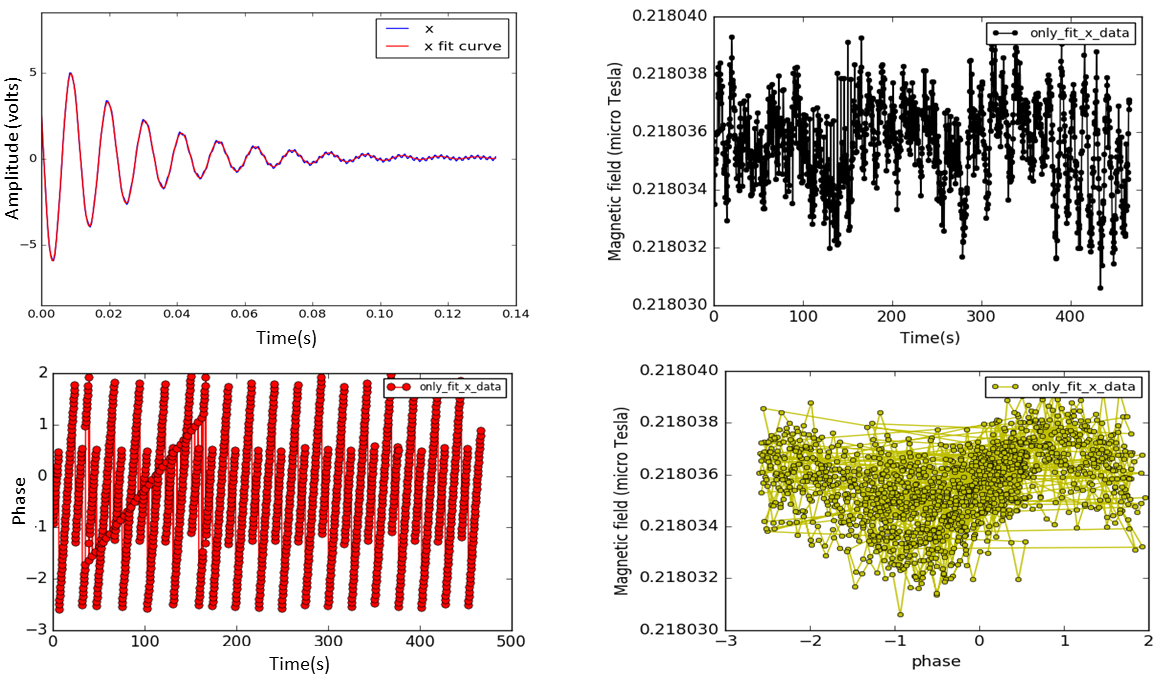
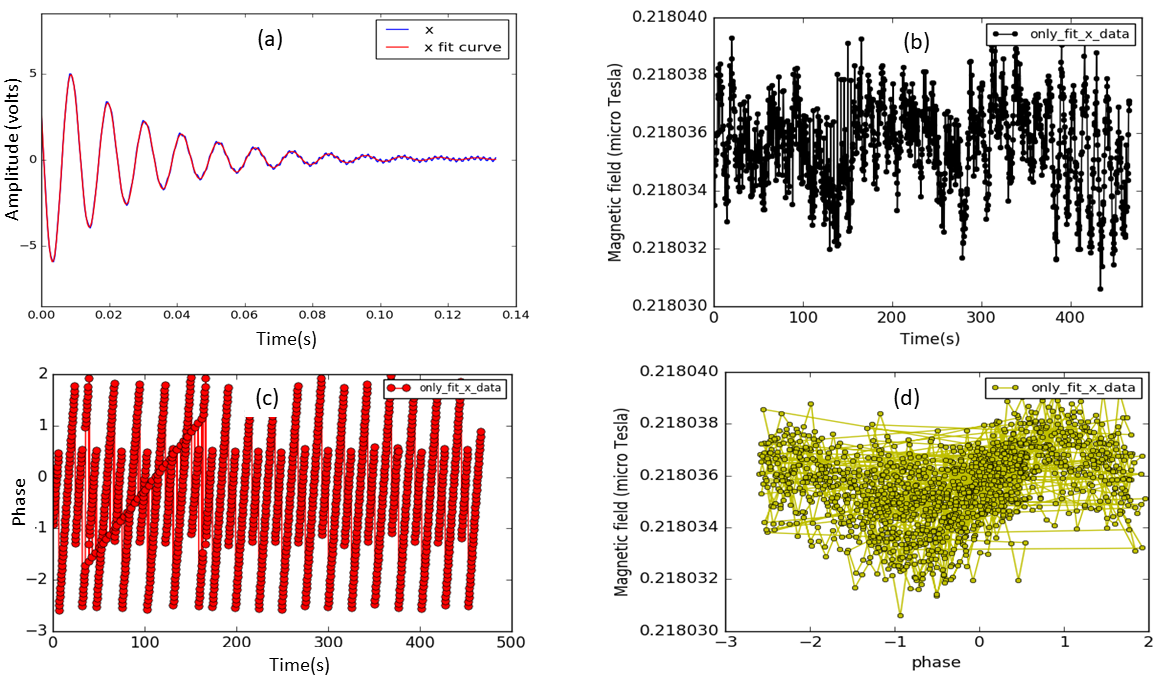
pushing any changes by Moushumi as of 9 am on Tuesday.

diff --git a/results.tex b/results.tex
@@ -216,38 +216,41 @@ to saturate well within 0.1~s.  The coherence time, indicated by the
 decay time of the oscillating signal, is about 0.06~s.
 Fig.~\ref{fig:pump-short} shows a more optimized the FID signal for
 0.1~s pump time and 0.2~s probe time.
-
+\begin{figure}%[h]
+  \centering\includegraphics[width=\linewidth]{figures/pump_time_}
+  \caption{Histograms of measured B-field for different pump times, for a measurement time of 100~s.  (a) is a pump time of
+      0.49~s (b) is a pump time of 0.39~s (c) is a pump time of 0.2~s
+      (d) is a pump time of 0.1~s.  The probe time in each case is
+      0.25~s.  The number of measurements taken in each case is
+      therefore (a) 137 (b) 158 (c) 224 (d) 287.  The standard
+      deviation of each set of measurements is indicated in the
+      respective figure.}\label{fig:different-pump-time}
+\end{figure}
 \begin{figure}%[h]
   \centering\includegraphics[width=\linewidth]{figures/pump_time}
   \caption{Histograms of measured B-field for different pump times,
-    {\bf for a measurement time of 300~s}. {\bf (a) is a pump time of
+    {\bf for a measurement time of 200~s}. {\bf (a) is a pump time of
       0.49~s (b) is a pump time of 0.39~s (c) is a pump time of 0.2~s
       (d) is a pump time of 0.1~s.  The probe time in each case is
       0.25~s.  The number of measurements taken in each case is
       therefore (a) 405 (b) 468 (c) 666 (d) 857.  The standard
       deviation of each set of measurements is indicated in the
-      respective figure.}\label{fig:different-pump-time}}
+      respective figure.}\label{fig:differentpump-time}}
 \end{figure}
 
 In Fig.~\ref{fig:different-pump-time} a histogram of measured magnetic
-fields by making subsequent measurements over 300~s is shown for
+fields by making subsequent measurements over 100~s is shown for
 different pump times.  {\bf Which one is which? What is in the figure?
-  The longer pump time is 0.49 s and the shorter one is 0.1 s.  What
+  The longer pump time is 0.49~s (\ref{fig:different-pump-time}(a)) and the shorter one is 0.1~s (\ref{fig:different-pump-time}(d)).  What
   is the probe time.  How many measurements appear in each graph?}
 
 From Fig.~\ref{fig:different-pump-time}, the pump time, when varied
 over this limited range, does not strongly affect the precision of the
 individual FID measurements.  {\bf However, it allows us to take
-  measurements faster(It is possible to take 857 measurement in 300 s
+  measurements faster(It is possible to take 287 measurement in 100 s
   if cycle time is optimized to 0.35 s instead of 1 s.  How much
   faster?  You need to say the times and/or how many measurements.}
   
-%  However for our Rb magnetometry setup the
-%shortest pump time 0.1 s because 0.1 s is the minimum time atoms need
-%to get aligned for making a coherence state after interacting with
-%laser beam. Since the amplitude of FID NMOR signal reach it's maximum
-%while atoms are in coherence state. Thus It is easy to understand
-%coherence state is ready or not by observing the signal amplitude.
 
 It is not surprising that the precision does not change much because
 the amplitude of the differential photodiode signal during the pump
@@ -415,19 +418,19 @@ time for different coil current. For better understanding
 Fig.~\ref{fig:field-change} has been divide into five different
 regions. In region-1 magnetic field has been recorded for 300 s while
 the applied current to the Z coil was 4.5 mA {\bf do you mean
-  4.500~mA?%  I mean 4.500~mA
+  4.500~mA?%  I mean 4.50000~mA
   How many digits of precision are possible in the current
   supply? }%6.5-digit. 
   Then in region-2 the applied current to the z coil has
-been increased by 0.0010 mA {\bf sig figs?} i.e., total current 4.5010
+been increased by 0.00100 mA {\bf sig figs?} i.e., total current 4.50100
 mA {\bf sig figs?} and measured the magnetic field for another 300
 s. It is clear from the figure that the field has been changed
 instantly by 50 pT due to the changed coil current. Now in
-region-3, the coil current has been reduced to 4.5000 mA {\bf sig figs?}
+region-3, the coil current has been reduced to 4.50000 mA {\bf sig figs?}
 and measured field for 300 s. After that the coil current has been
-decreased by 0.0010 mA. As a result the field also decreased by
+decreased by 0.00100 mA. As a result the field also decreased by
 50~pT in this region.  Finally in region-5 the coil current has
- been set to 4.5000 mA again and observed the corresponing quick change in
+ been set to 4.50000 mA again and observed the corresponing quick change in
 field.
 
 \section{Study the effect of room temperature in magnetic field} 
@@ -466,7 +469,7 @@ has taken place. In order to understand the correlation between
 temperature change and field change, the measured field
 vs. temperature has shown in Fig.~\ref{fig:field_vs_temp}. {\bf What
   was the data acquisition system for each device?  How were the data
-  synchronized?% For room temperature measurement a precision thermometer was connected to a Agilent 34410A/11A 6 ½ Digit Multimeter. A python script was used to configures the multimeter for a 2-wire RTD measurement, triggers the meter, and then transfers the reading to the computer via instrument output buffer. And for temperature measurement near shield  the T-type thermocouple was connected with a Arduino Uno. For configuring this device and then transferring the reading to the computer a python script was used. 
+  synchronized?% For room temperature measurement a precision thermometer was connected to a Agilent 34410A/11A 6 ½ Digit Multimeter. A python script was used to configures the multimeter for a 2-wire RTD measurement, triggers the meter, and then transfers the reading to the computer. And for temperature measurement near shield  the T-type thermocouple was connected with a Arduino Uno. For configuring this device and then transferring the reading to the computer a python script was used. 
   }  It is clear from the graph that there is no obvious
 of field drift dependency on temperature.
   
@@ -1016,17 +1019,17 @@ Another study has been conducted to understand the influence of pump beam power 
 
 
  
-  The FID signal for different reference frequency of lock-in amplifier has shown in Fig \ref{fig:different reference signal}. In the case of Fig \ref{fig:far from resonance} the reference frequency of lock-in was set to 1943.9 Hz (90 Hz far from resonance frequency). On the other hand for Fig \ref{fig:close to resonance} the reference frequency of lock-in was set to 2015 Hz (20 Hz far from resonance frequency). In this study the resonance frequency was always set to 2035 Hz and the pump power(~60 $\mu$w) and probe power (~32 $\mu$w)
+  The FID signal for different reference frequency of lock-in amplifier has shown in Fig \ref{fig:different reference signal}. In the case of Fig \ref{fig:far from resonance} the reference frequency of lock-in was set to 1943.9 Hz (90 Hz far from resonance frequency). On the other hand for Fig \ref{fig:close to resonance} the reference frequency of lock-in was set to 2015 Hz (20 Hz far from resonance frequency). In this study the resonance frequency was always set to 2035 Hz and the pump power(~60 $\mu$w) and probe power (~30 $\mu$w)
   
-  Fig\ref{fig:freq_1943_single_fit_300_micros} display the example of fitted FID signal(upper left figure), measured magnetic field over time (upper right figure), phase as a function of time (bottom left figure) and magnetic field vs. phase (bottom left figure) for lock-in reference frequency 1943 Hz. During this measurement the lock-in time constant was set to 300$\mu$~s. A clear indication of correlation between field and phase can be seen here.
+  Fig \ref{fig:freq_1943_single_fit_300_micros} display the example of fitted FID signal(Fig \ref{fig:freq_1943_single_fit_300_micros}a), measured magnetic field over time (Fig \ref{fig:freq_1943_single_fit_300_micros}b), phase as a function of time (Fig \ref{fig:freq_1943_single_fit_300_micros}c) and magnetic field vs. phase (Fig \ref{fig:freq_1943_single_fit_300_micros}d) for lock-in reference frequency 1943 Hz. During this measurement the lock-in time constant was set to 300$\mu$~s. A clear indication of correlation between field and phase can be seen here.
   
-   Fig\ref{fig:freq_1943_simultaneous_fit_300_micro_sec} display the example of simultaneous fitted x and y signal(upper left figure), measured magnetic field over time (upper right figure), magnetic field vs. phase (bottom left figure) and histogram of measured field (bottom left figure) for lock-in reference frequency 1943 Hz. During this measurement the lock-in time constant was set to 300$\mu$~s. 
+   Fig \ref{fig:freq_1943_simultaneous_fit_300_micro_sec} display the example of simultaneous fitted x and y signal( Fig \ref{fig:freq_1943_simultaneous_fit_300_micro_sec}a), measured magnetic field over time ( Fig \ref{fig:freq_1943_simultaneous_fit_300_micro_sec}b), magnetic field vs. phase ( Fig \ref{fig:freq_1943_simultaneous_fit_300_micro_sec}c) and histogram of measured field ( Fig \ref{fig:freq_1943_simultaneous_fit_300_micro_sec}d) for lock-in reference frequency 1943 Hz. During this measurement the lock-in time constant was set to 300$\mu$~s. 
    
-    Fig\ref{fig:freq_2015_simultaneous_fit_300_micros} display the example of simultaneous fitted x and y signal(upper left figure), measured magnetic field over time (upper right figure), magnetic field vs. phase (bottom left figure) and histogram of measured field (bottom left figure) for lock-in reference frequency 2015 Hz. During this measurement the lock-in time constant was set to 300$\mu$~s.
+    Fig \ref{fig:freq_2015_simultaneous_fit_300_micros} display the example of simultaneous fitted x and y signal(Fig\ref{fig:freq_2015_simultaneous_fit_300_micros} a), measured magnetic field over time (Fig\ref{fig:freq_2015_simultaneous_fit_300_micros} b), magnetic field vs. phase (Fig\ref{fig:freq_2015_simultaneous_fit_300_micros}c) and histogram of measured field (Fig\ref{fig:freq_2015_simultaneous_fit_300_micros} d) for lock-in reference frequency 2015 Hz. During this measurement the lock-in time constant was set to 300$\mu$~s.
     
-    Fig \ref{fig:freq_1943_simultaneous_fit_1ms} display the example of simultaneous fitted x and y signal(upper left figure), measured magnetic field over time (upper right figure), magnetic field vs. phase (bottom left figure) and histogram of measured field (bottom left figure) for lock-in reference frequency 1943 Hz. During this measurement the lock-in time constant was set to 1~ms. 
+    Fig \ref{fig:freq_1943_simultaneous_fit_1ms} display the example of simultaneous fitted x and y signal(Fig \ref{fig:freq_1943_simultaneous_fit_1ms} a), measured magnetic field over time (Fig \ref{fig:freq_1943_simultaneous_fit_1ms} b), magnetic field vs. phase (Fig \ref{fig:freq_1943_simultaneous_fit_1ms} c) and histogram of measured field (Fig \ref{fig:freq_1943_simultaneous_fit_1ms} d) for lock-in reference frequency 1943 Hz. During this measurement the lock-in time constant was set to 1~ms. 
     
-  Fig \ref{fig:freq_2015_1ms} display the example of simultaneous fitted x and y signal(upper right figure), measured magnetic field over time (upper right figure), magnetic field vs. phase (bottom left figure) and histogram of measured field (bottom left figure) for lock-in reference frequency 1943 Hz. During this measurement the lock-in time constant was set to 1~ms.  
+  Fig \ref{fig:freq_2015_1ms} display the magnetic field as a function of phase while only x data was fitted (Fig \ref{fig:freq_2015_1ms} a) , an example of simultaneous fitted x and y signal(Fig \ref{fig:freq_2015_1ms} b), magnetic field vs. phase (Fig \ref{fig:freq_2015_1ms} c) and histogram of measured field (Fig \ref{fig:freq_2015_1ms} d) for lock-in reference frequency 2015 Hz. During this measurement the lock-in time constant was set to 1~ms.  
   
   In Fig \ref{fig:field for different lockin ref freq} the measured magnetic field over 35 s for different lock-in reference frequency has shown. It is obvious from the plot that if we set reference frequency very close to resonance frequency magnetic field start to oscillate. The exact reason behind this observed field oscillation remains unknown. We are thinking that when lock-in reference frequency is set very close to resonance frequency the fit function might fail to fit data properly due to the less zero crossings. So it seems like a systematic effect on field measurement rather than a real fact.
    
